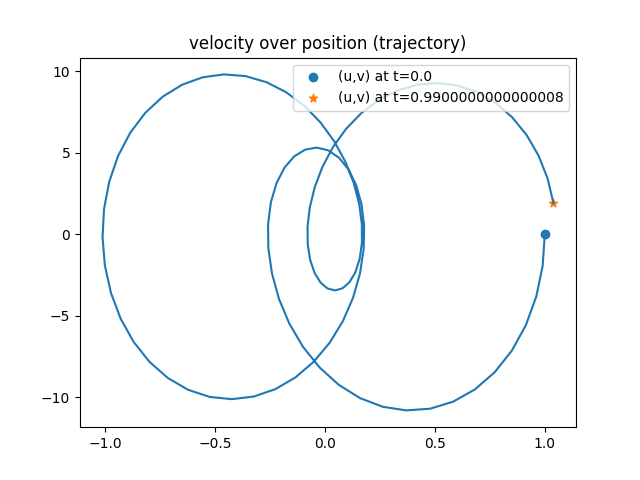
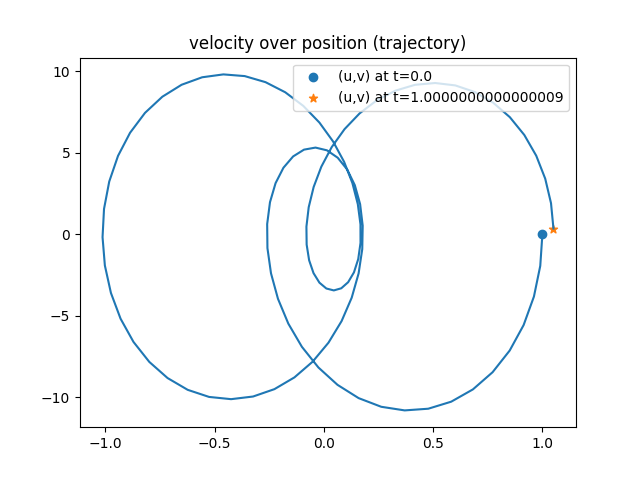
Also write final result to output.

diff --git a/oscillator/plot-trajectory.py b/oscillator/plot-trajectory.py
@@ -25,7 +25,6 @@ elif args.plotType == PlotType.V_OVER_T.name:
     plt.plot(df['time'], df['velocity'])
     plt.title(PlotType.V_OVER_T.value)
 elif args.plotType == PlotType.TRAJECTORY.name:
-    print([df['position'][0]], [df['velocity'][0]])
     plt.plot(df['position'], df['velocity'])
     plt.scatter([df['position'][0]], [df['velocity'][0]], label=f"(u,v) at t={df['time'][0]}")
     plt.scatter([df['position'].iloc[-1]], [df['velocity'].iloc[-1]],

diff --git a/oscillator/python/oscillator.py b/oscillator/python/oscillator.py
@@ -193,6 +193,17 @@ while interface.is_coupling_ongoing():
         v_write.append(v)
         t_write.append(t)
 
+# store final result
+u = u_new
+v = v_new
+a = a_new
+u_write.append(u)
+v_write.append(v)
+t_write.append(t)
+positions += u_write
+velocities += v_write
+times += t_write
+
 interface.finalize()
 
 # print errors
